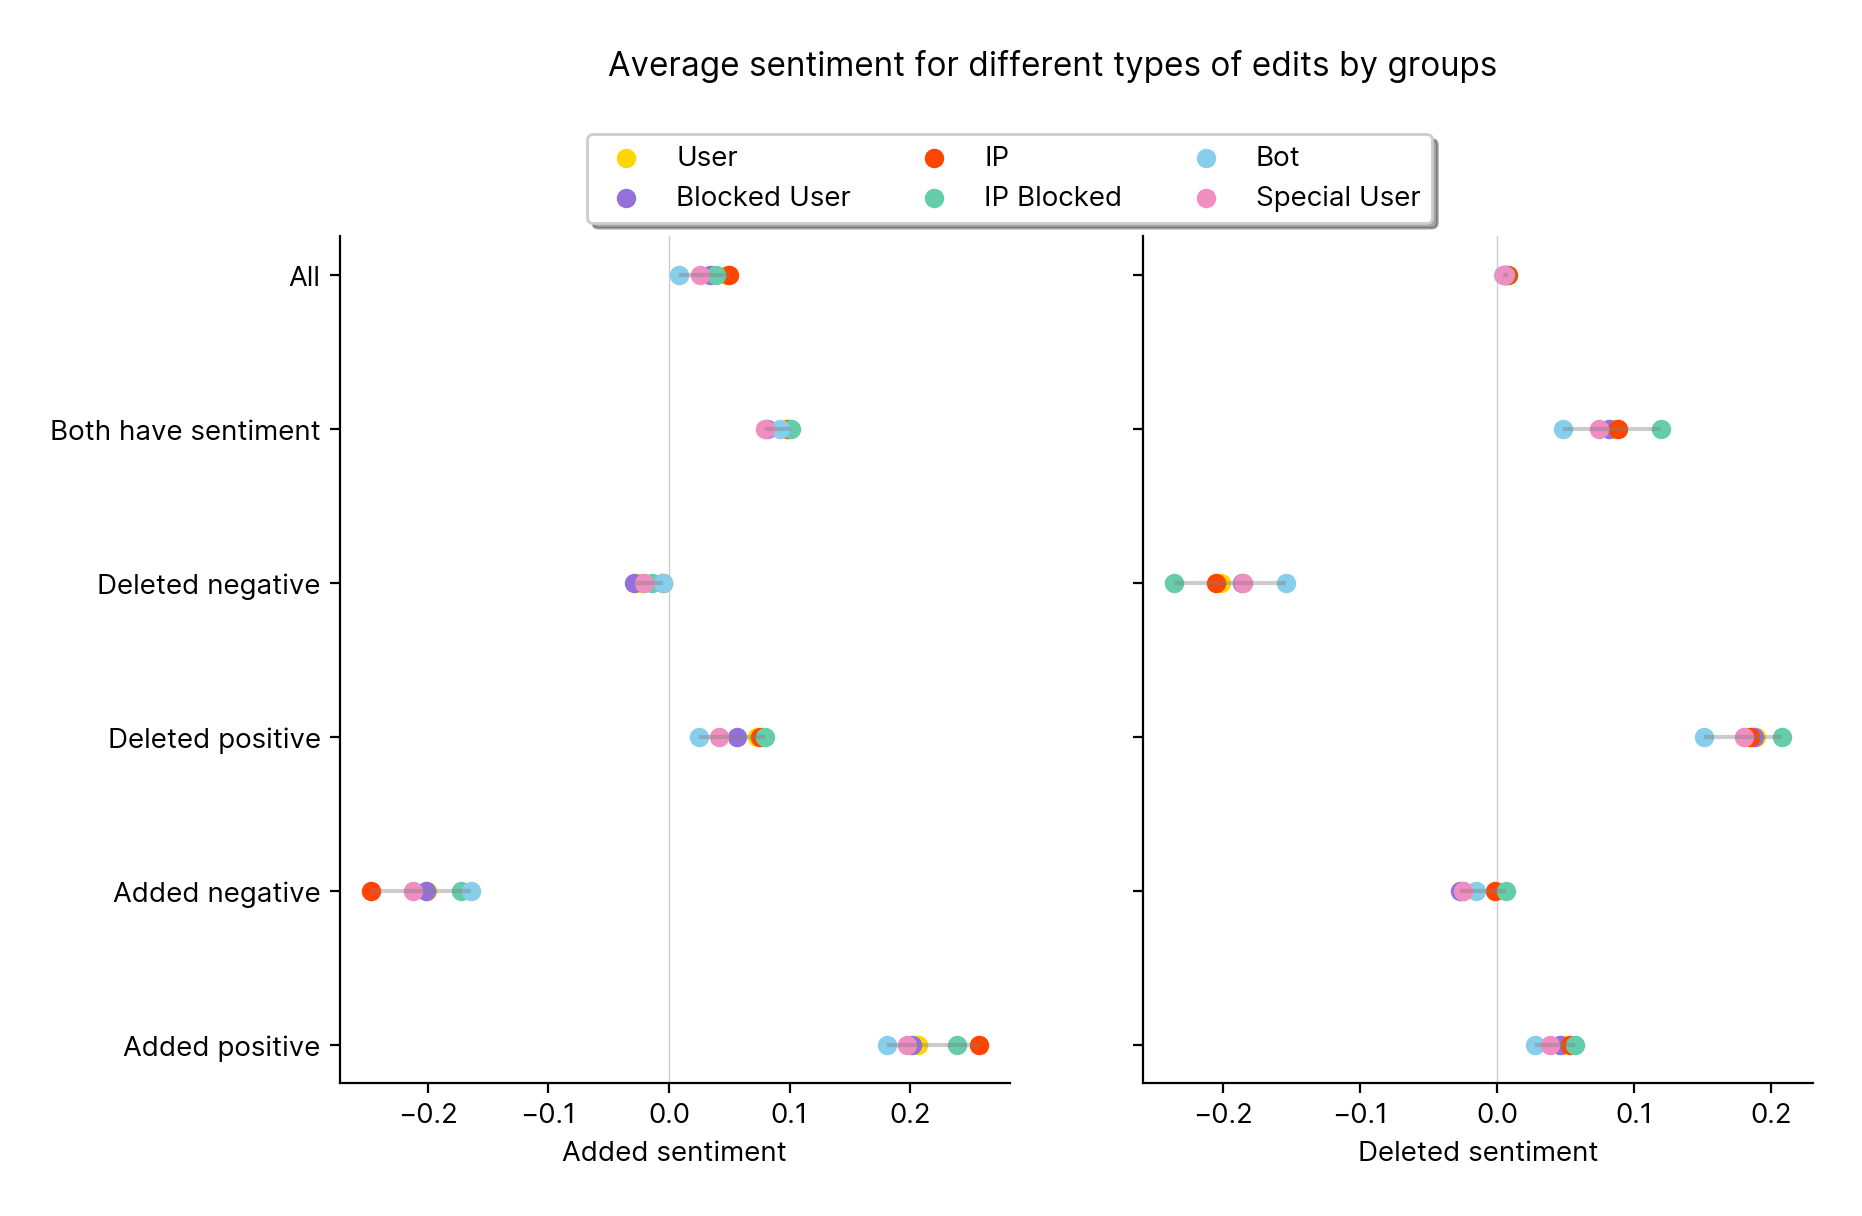
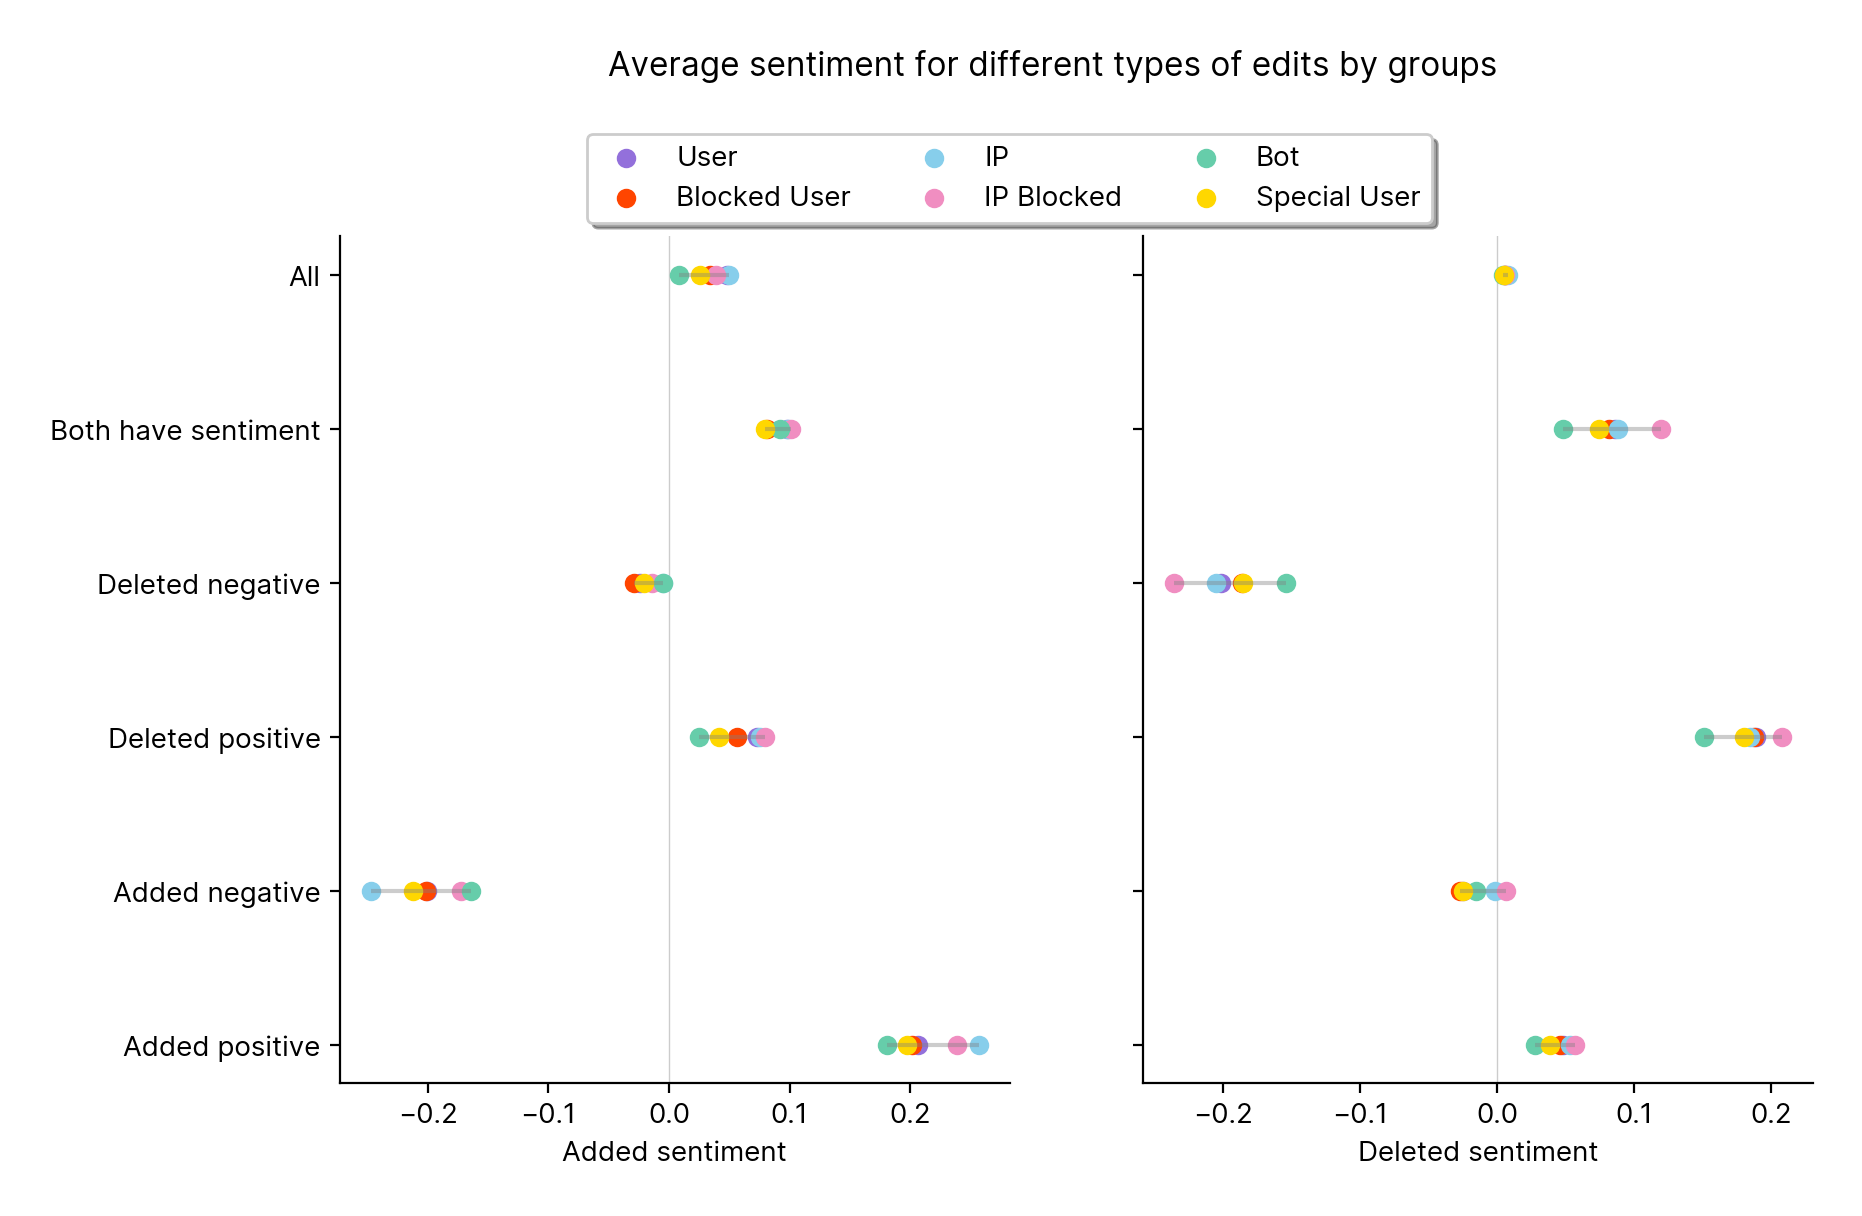
update colours in 13 and refactor 29

diff --git a/nsdb/plot.py b/nsdb/plot.py
@@ -1044,12 +1044,12 @@ def sentimentGroups(cursor, i, plotDir, dataDir, dryrun=False):
     savePlot(figname)
 
     colors = [
-        "gold",
         "mediumpurple",
         "orangered",
-        "mediumaquamarine",
         "skyblue",
         "#F08EC1",
+        "mediumaquamarine",
+        "gold",
     ]
 
     figname = plotDir + str(i) + "-2-" + "sentimentGroups"
@@ -1111,9 +1111,10 @@ def sentimentGroups(cursor, i, plotDir, dataDir, dryrun=False):
 
         for k, group in enumerate(groups):
             if j in [2, 3]:
-                ax.bar(k, data[k][j][1] - data[k][j][0], label=group)
+                value = data[k][j][1] - data[k][j][0]
             else:
-                ax.bar(k, data[k][j][0] - data[k][j][1], label=group)
+                value = data[k][j][0] - data[k][j][1]
+            ax.bar(k, value, label=group, color=colors[k])
 
     plt.gcf().set_size_inches(14, 17)
     savePlot(figname)
@@ -2366,270 +2367,104 @@ def namespacesEditedByUserGroups(cursor, i, plotDir, dataDir, dryrun):
         "Gadget Definition Talk",
     ]
 
-    # https://stackoverflow.com/questions/28620904/how-to-count-unique-set-values-in-mysql
-    count = "SELECT COUNT(*) FROM user"
-    allUsers = """SELECT COUNT(user.namespaces) FROM
-    (SELECT TRIM("'" FROM SUBSTRING_INDEX(SUBSTRING_INDEX(
-    (SELECT TRIM(')' FROM SUBSTR(column_type, 5)) FROM information_schema.columns
-    WHERE table_name = 'user' AND column_name = 'namespaces'),
-    ',', @r:=@r+1), ',', -1)) AS namespaces
-    FROM (SELECT @r:=0) deriv1,
-    (SELECT ID FROM information_schema.COLLATIONS) deriv2
-    HAVING @r <=
-    (SELECT LENGTH(column_type) - LENGTH(REPLACE(column_type, ',', ''))
-    FROM information_schema.columns
-    WHERE table_name = 'user' AND column_name = 'namespaces')) set_list
-    LEFT OUTER JOIN (SELECT namespaces FROM user) user
-    ON FIND_IN_SET(set_list.namespaces, user.namespaces) > 0
-    GROUP BY set_list.namespaces
-    ;"""
-    if not dryrun:
-        cursor.execute(allUsers,)
-        allUsersData = cursor.fetchall()
+    groups = [
+        "All",
+        "Special",
+        "Users",
+        "Bot",
+        "Blocked",
+        "IP",
+        "IP Blocked",
+    ]
 
-        cursor.execute(count,)
-        total = cursor.fetchall()[0][0]
-        allUsersData = list(map(lambda x: x[0] / total, allUsersData))
+    colors = [
+        "black",
+        "gold",
+        "mediumpurple",
+        "mediumaquamarine",
+        "orangered",
+        "skyblue",
+        "#F08EC1",
+    ]
 
-        writeCSV(dataDir + str(i) + "-all.csv", [allUsersData])
-    else:
-        with open(dataDir + str(i) + "-all.csv", "r") as file:
-            reader = csv.reader(file, delimiter=",")
-            allUsersData = [line for line in reader]
-            allUsersData = allUsersData[0]
-            allUsersData = list(map(float, allUsersData))
+    conditions = [
+        "1",
+        "user_special is True",
+        "bot is not True and blocked is not true and ip_address is not true and user_special is not True",
+        "bot is True",
+        "blocked is True and ip_address is not true and bot is not true and user_special is not true",
+        "ip_address is True and blocked is not true",
+        "ip_address is True and blocked is true",
+    ]
 
-    count = "SELECT COUNT(*) FROM user where bot is null and blocked is null and ip_address is null"
-    users = """SELECT COUNT(user.namespaces) FROM
-    (SELECT TRIM("'" FROM SUBSTRING_INDEX(SUBSTRING_INDEX(
-    (SELECT TRIM(')' FROM SUBSTR(column_type, 5)) FROM information_schema.columns
-    WHERE table_name = 'user' AND column_name = 'namespaces'),
-    ',', @r:=@r+1), ',', -1)) AS namespaces
-    FROM (SELECT @r:=0) deriv1,
-    (SELECT ID FROM information_schema.COLLATIONS) deriv2
-    HAVING @r <=
-    (SELECT LENGTH(column_type) - LENGTH(REPLACE(column_type, ',', ''))
-    FROM information_schema.columns
-    WHERE table_name = 'user' AND column_name = 'namespaces')) set_list
-    LEFT OUTER JOIN (SELECT namespaces FROM user
-        where bot is null and blocked is null and ip_address is null) user
-    ON FIND_IN_SET(set_list.namespaces, user.namespaces) > 0
-    GROUP BY set_list.namespaces
-    ;"""
-    if not dryrun:
-        cursor.execute(users,)
-        usersData = cursor.fetchall()
-        cursor.execute(count,)
-        total = cursor.fetchall()[0][0]
-        usersData = list(map(lambda x: x[0] / total, usersData))
+    data = []
+    for j, condition in enumerate(conditions):
+        # https://stackoverflow.com/questions/28620904/how-to-count-unique-set-values-in-mysql
+        count = "SELECT COUNT(*) FROM user where %s"
+        group = """SELECT COUNT(user.namespaces) FROM
+        (SELECT TRIM("'" FROM SUBSTRING_INDEX(SUBSTRING_INDEX(
+        (SELECT TRIM(')' FROM SUBSTR(column_type, 5)) FROM information_schema.columns
+        WHERE table_name = 'user' AND column_name = 'namespaces'),
+        ',', @r:=@r+1), ',', -1)) AS namespaces
+        FROM (SELECT @r:=0) deriv1,
+        (SELECT ID FROM information_schema.COLLATIONS) deriv2
+        HAVING @r <=
+        (SELECT LENGTH(column_type) - LENGTH(REPLACE(column_type, ',', ''))
+        FROM information_schema.columns
+        WHERE table_name = 'user' AND column_name = 'namespaces')) set_list
+        LEFT OUTER JOIN (SELECT namespaces FROM user
+            where %s) user
+        ON FIND_IN_SET(set_list.namespaces, user.namespaces) > 0
+        GROUP BY set_list.namespaces
+        ;"""
+        if not dryrun:
+            cursor.execute(group % condition,)
+            groupData = cursor.fetchall()
+            cursor.execute(count % condition,)
+            total = cursor.fetchall()[0][0]
+            groupData = list(map(lambda x: x[0] / total, groupData))
 
-        writeCSV(dataDir + str(i) + "-user.csv", [usersData])
-    else:
-        with open(dataDir + str(i) + "-user.csv", "r") as file:
-            reader = csv.reader(file, delimiter=",")
-            usersData = [line for line in reader]
-            usersData = usersData[0]
-            usersData = list(map(float, usersData))
+            writeCSV(dataDir + str(i) + "-%s.csv" % groups[j], [groupData])
+        else:
+            with open(dataDir + str(i) + "-%s.csv" % groups[j], "r") as file:
+                reader = csv.reader(file, delimiter=",")
+                groupData = [line for line in reader]
+                groupData = groupData[0]
+                groupData = list(map(float, groupData))
 
-    count = "SELECT COUNT(*) FROM user where user_special is true"
-    specialUsers = """SELECT COUNT(user.namespaces) FROM
-    (SELECT TRIM("'" FROM SUBSTRING_INDEX(SUBSTRING_INDEX(
-    (SELECT TRIM(')' FROM SUBSTR(column_type, 5)) FROM information_schema.columns
-    WHERE table_name = 'user' AND column_name = 'namespaces'),
-    ',', @r:=@r+1), ',', -1)) AS namespaces
-    FROM (SELECT @r:=0) deriv1,
-    (SELECT ID FROM information_schema.COLLATIONS) deriv2
-    HAVING @r <=
-    (SELECT LENGTH(column_type) - LENGTH(REPLACE(column_type, ',', ''))
-    FROM information_schema.columns
-    WHERE table_name = 'user' AND column_name = 'namespaces')) set_list
-    LEFT OUTER JOIN (SELECT namespaces FROM user
-        where user_special is true) user
-    ON FIND_IN_SET(set_list.namespaces, user.namespaces) > 0
-    GROUP BY set_list.namespaces
-    ;"""
-    if not dryrun:
-        cursor.execute(specialUsers,)
-        specialUsersData = cursor.fetchall()
-        cursor.execute(count,)
-        total = cursor.fetchall()[0][0]
-        specialUsersData = list(map(lambda x: x[0] / total, specialUsersData))
-
-        writeCSV(dataDir + str(i) + "-special.csv", [specialUsersData])
-    else:
-        with open(dataDir + str(i) + "-special.csv", "r") as file:
-            reader = csv.reader(file, delimiter=",")
-            specialUsersData = [line for line in reader]
-            specialUsersData = specialUsersData[0]
-            specialUsersData = list(map(float, specialUsersData))
-
-    count = "SELECT COUNT(*) FROM user where bot is true"
-    bots = """SELECT COUNT(user.namespaces) FROM
-    (SELECT TRIM("'" FROM SUBSTRING_INDEX(SUBSTRING_INDEX(
-    (SELECT TRIM(')' FROM SUBSTR(column_type, 5)) FROM information_schema.columns
-    WHERE table_name = 'user' AND column_name = 'namespaces'),
-    ',', @r:=@r+1), ',', -1)) AS namespaces
-    FROM (SELECT @r:=0) deriv1,
-    (SELECT ID FROM information_schema.COLLATIONS) deriv2
-    HAVING @r <=
-    (SELECT LENGTH(column_type) - LENGTH(REPLACE(column_type, ',', ''))
-    FROM information_schema.columns
-    WHERE table_name = 'user' AND column_name = 'namespaces')) set_list
-    LEFT OUTER JOIN (SELECT namespaces FROM user
-        where bot is true and (number_of_edits > 0 or
-    talkpage_number_of_edits > 0)) user
-    ON FIND_IN_SET(set_list.namespaces, user.namespaces) > 0
-    GROUP BY set_list.namespaces
-    ;"""
-    if not dryrun:
-        cursor.execute(bots,)
-        botsData = cursor.fetchall()
-        cursor.execute(count,)
-        total = cursor.fetchall()[0][0]
-        botsData = list(map(lambda x: x[0] / total, botsData))
-
-        writeCSV(dataDir + str(i) + "-bots.csv", [botsData])
-    else:
-        with open(dataDir + str(i) + "-bots.csv", "r") as file:
-            reader = csv.reader(file, delimiter=",")
-            botsData = [line for line in reader]
-            botsData = botsData[0]
-            botsData = list(map(float, botsData))
-
-    count = "SELECT COUNT(*) FROM user where blocked is true and ip_address is null"
-    blocked = """SELECT COUNT(user.namespaces) FROM
-    (SELECT TRIM("'" FROM SUBSTRING_INDEX(SUBSTRING_INDEX(
-    (SELECT TRIM(')' FROM SUBSTR(column_type, 5)) FROM information_schema.columns
-    WHERE table_name = 'user' AND column_name = 'namespaces'),
-    ',', @r:=@r+1), ',', -1)) AS namespaces
-    FROM (SELECT @r:=0) deriv1,
-    (SELECT ID FROM information_schema.COLLATIONS) deriv2
-    HAVING @r <=
-    (SELECT LENGTH(column_type) - LENGTH(REPLACE(column_type, ',', ''))
-    FROM information_schema.columns
-    WHERE table_name = 'user' AND column_name = 'namespaces')) set_list
-    LEFT OUTER JOIN (SELECT namespaces FROM user
-        where blocked is true and ip_address is null) user
-    ON FIND_IN_SET(set_list.namespaces, user.namespaces) > 0
-    GROUP BY set_list.namespaces
-    ;"""
-    if not dryrun:
-        cursor.execute(blocked,)
-        blockedData = cursor.fetchall()
-        cursor.execute(count,)
-        total = cursor.fetchall()[0][0]
-        blockedData = list(map(lambda x: x[0] / total, blockedData))
-
-        writeCSV(dataDir + str(i) + "-blocked.csv", [blockedData])
-    else:
-        with open(dataDir + str(i) + "-blocked.csv", "r") as file:
-            reader = csv.reader(file, delimiter=",")
-            blockedData = [line for line in reader]
-            blockedData = blockedData[0]
-            blockedData = list(map(float, blockedData))
-
-    count = "SELECT COUNT(*) FROM user where ip_address is true"
-    ip = """SELECT COUNT(user.namespaces) FROM
-    (SELECT TRIM("'" FROM SUBSTRING_INDEX(SUBSTRING_INDEX(
-    (SELECT TRIM(')' FROM SUBSTR(column_type, 5)) FROM information_schema.columns
-    WHERE table_name = 'user' AND column_name = 'namespaces'),
-    ',', @r:=@r+1), ',', -1)) AS namespaces
-    FROM (SELECT @r:=0) deriv1,
-    (SELECT ID FROM information_schema.COLLATIONS) deriv2
-    HAVING @r <=
-    (SELECT LENGTH(column_type) - LENGTH(REPLACE(column_type, ',', ''))
-    FROM information_schema.columns
-    WHERE table_name = 'user' AND column_name = 'namespaces')) set_list
-    LEFT OUTER JOIN (SELECT namespaces FROM user
-        where ip_address is true) user
-    ON FIND_IN_SET(set_list.namespaces, user.namespaces) > 0
-    GROUP BY set_list.namespaces
-    ;"""
-    if not dryrun:
-        cursor.execute(ip,)
-        ipData = cursor.fetchall()
-        cursor.execute(count,)
-        total = cursor.fetchall()[0][0]
-        ipData = list(map(lambda x: x[0] / total, ipData))
-        writeCSV(dataDir + str(i) + "-ip.csv", [ipData])
-    else:
-        with open(dataDir + str(i) + "-ip.csv", "r") as file:
-            reader = csv.reader(file, delimiter=",")
-            ipData = [line for line in reader]
-            ipData = ipData[0]
-            ipData = list(map(float, ipData))
-
-    count = "SELECT COUNT(*) FROM user where blocked is true and ip_address is true"
-    ipBlocked = """SELECT COUNT(user.namespaces) FROM
-    (SELECT TRIM("'" FROM SUBSTRING_INDEX(SUBSTRING_INDEX(
-    (SELECT TRIM(')' FROM SUBSTR(column_type, 5)) FROM information_schema.columns
-    WHERE table_name = 'user' AND column_name = 'namespaces'),
-    ',', @r:=@r+1), ',', -1)) AS namespaces
-    FROM (SELECT @r:=0) deriv1,
-    (SELECT ID FROM information_schema.COLLATIONS) deriv2
-    HAVING @r <=
-    (SELECT LENGTH(column_type) - LENGTH(REPLACE(column_type, ',', ''))
-    FROM information_schema.columns
-    WHERE table_name = 'user' AND column_name = 'namespaces')) set_list
-    LEFT OUTER JOIN (SELECT namespaces FROM user
-        where blocked is true and ip_address is true) user
-    ON FIND_IN_SET(set_list.namespaces, user.namespaces) > 0
-    GROUP BY set_list.namespaces
-    ;"""
-    if not dryrun:
-        cursor.execute(ipBlocked,)
-        ipBlockedData = cursor.fetchall()
-        cursor.execute(count,)
-        total = cursor.fetchall()[0][0]
-        ipBlockedData = list(map(lambda x: x[0] / total, ipBlockedData))
-        writeCSV(dataDir + str(i) + "-ip-blocked.csv", [ipBlockedData])
-    else:
-        with open(dataDir + str(i) + "-ip-blocked.csv", "r") as file:
-            reader = csv.reader(file, delimiter=",")
-            ipBlockedData = [line for line in reader]
-            ipBlockedData = ipBlockedData[0]
-            ipBlockedData = list(map(float, ipBlockedData))
+        data.append(groupData)
 
     _, ax = plt.subplots()
-
-    start = 0
-    end = len(usersData)
-    plotRange = range(start, end)
-
+    plotRange = range(0, len(data[0]))
     ax.set_title("Namespaces Edited By Different Groups of Users")
     ax.hlines(
         y=plotRange,
-        xmin=[
-            min(a, b, c, d)
-            for a, b, c, d in zip(
-                specialUsersData[start:end],
-                botsData[start:end],
-                blockedData[start:end],
-                ipBlockedData[start:end],
-            )
-        ],
-        xmax=specialUsersData[start:end],
+        xmin=[min(a, b, c, d, e, f, g) for a, b, c, d, e, f, g in list(zip(*data))],
+        xmax=[max(a, b, c, d, e, f, g) for a, b, c, d, e, f, g in list(zip(*data))],
         color="grey",
         alpha=0.4,
     )
     ax.vlines(
-        x=allUsersData[start:end],
+        x=data[0],
         ymin=list(map(lambda x: x - 0.5, plotRange)),
         ymax=list(map(lambda x: x + 0.5, plotRange)),
         color="grey",
         alpha=0.4,
     )
-    ax.scatter(usersData, plotRange, color="mediumpurple", label="all users")
-    ax.scatter(specialUsersData, plotRange, color="gold", label="users with privileges")
-    ax.scatter(botsData, plotRange, color="mediumaquamarine", label="bots")
-    ax.scatter(ipData, plotRange, color="skyblue", label="IP users")
-    ax.scatter(blockedData, plotRange, color="orangered", label="blocked users")
-    ax.scatter(ipBlockedData, plotRange, color="#F08EC1", label="blocked IP users")
-    ax.set_yticklabels(columns[start:end])
-    ax.set_yticks(plotRange)
-    ax.legend(
-        loc="upper center", bbox_to_anchor=(0.5, 1), ncol=3, fancybox=True, shadow=True,
-    )
+
+    for j, group in enumerate(data):
+        if j == 0:
+            continue
+        ax.scatter(group, plotRange, color=colors[j], label=groups[j])
+        ax.set_yticklabels(columns)
+        ax.set_yticks(plotRange)
+        ax.legend(
+            loc="upper center",
+            bbox_to_anchor=(0.5, 1),
+            ncol=3,
+            fancybox=True,
+            shadow=True,
+        )
 
     plt.gcf().set_size_inches(9.5, 9.5)
     removeSpines(ax)
